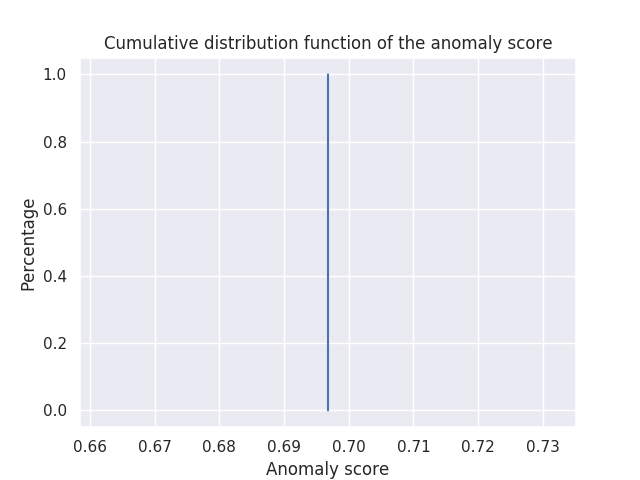
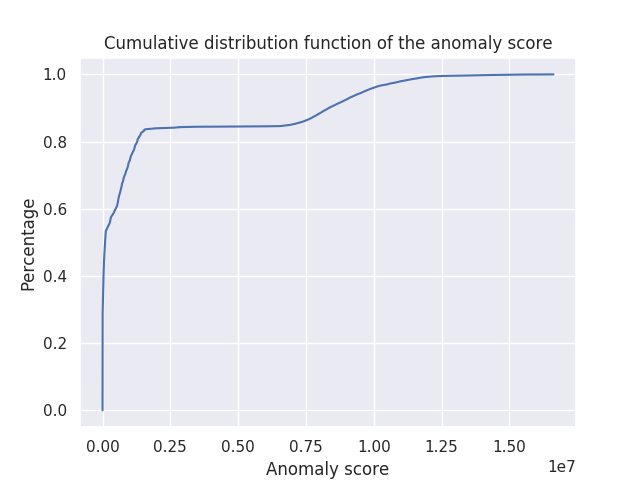
debug

diff --git a/data/cicids2017.py b/data/cicids2017.py
@@ -20,7 +20,7 @@ def get_valid(label=0, scale=False, *args):
 
 def get_shape_input():
     """Get shape of the dataset for cicids2017"""
-    return (None, 78)
+    return (None, 76)
 
 def get_shape_label():
     """Get shape of the labels in cicids2017"""
@@ -47,6 +47,8 @@ def _get_dataset(scale):
     #df = pd.read_csv("data/kddcup.data_10_percent_corrected", header=None, names=col_names)
     df = pd.read_csv("data/MachineLearningCVE/Friday-WorkingHours-Afternoon-DDos.pcap_ISCX.csv")
     #text_l = ['protocol_type', 'service', 'flag', 'land', 'logged_in', 'is_host_login', 'is_guest_login']
+    df.drop('Flow Bytes/s', axis=1, inplace=True)
+    df.drop(' Flow Packets/s', axis=1, inplace=True)
     text_l = []
 
     for name in text_l:

diff --git a/alad/cicids2017_utilities.py b/alad/cicids2017_utilities.py
@@ -90,7 +90,7 @@ def decoder(z_inp, is_training=False, getter=None, reuse=False):
         name_net = 'layer_3'
         with tf.variable_scope(name_net):
             net = tf.layers.dense(net,
-                                  units=78,
+                                  units=76,
                                   kernel_initializer=init_kernel,
                                   name='fc')
 
